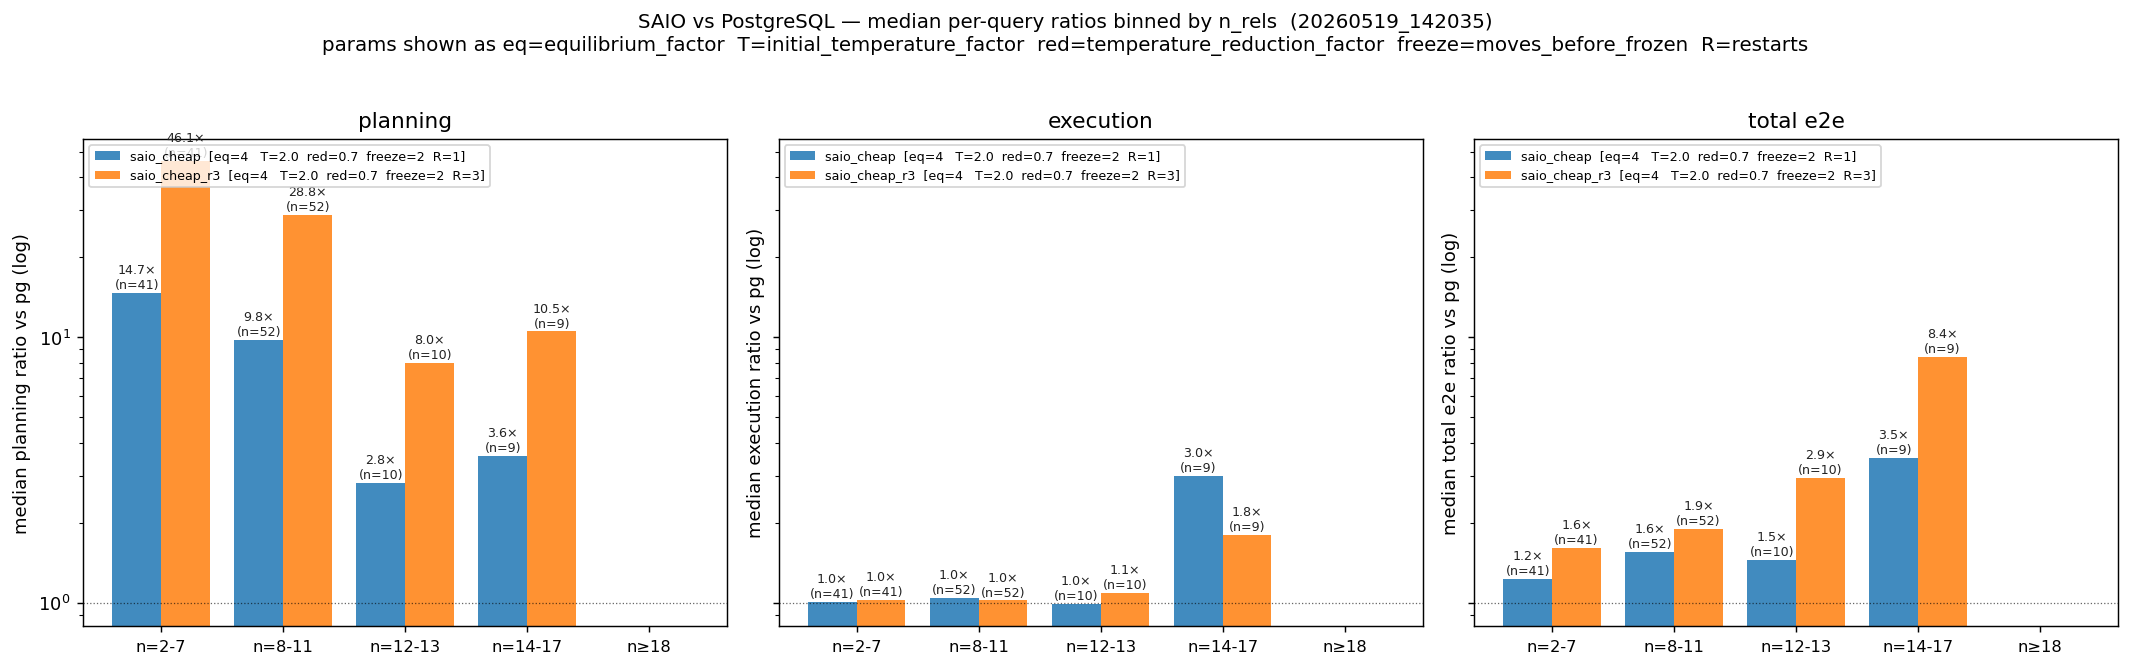
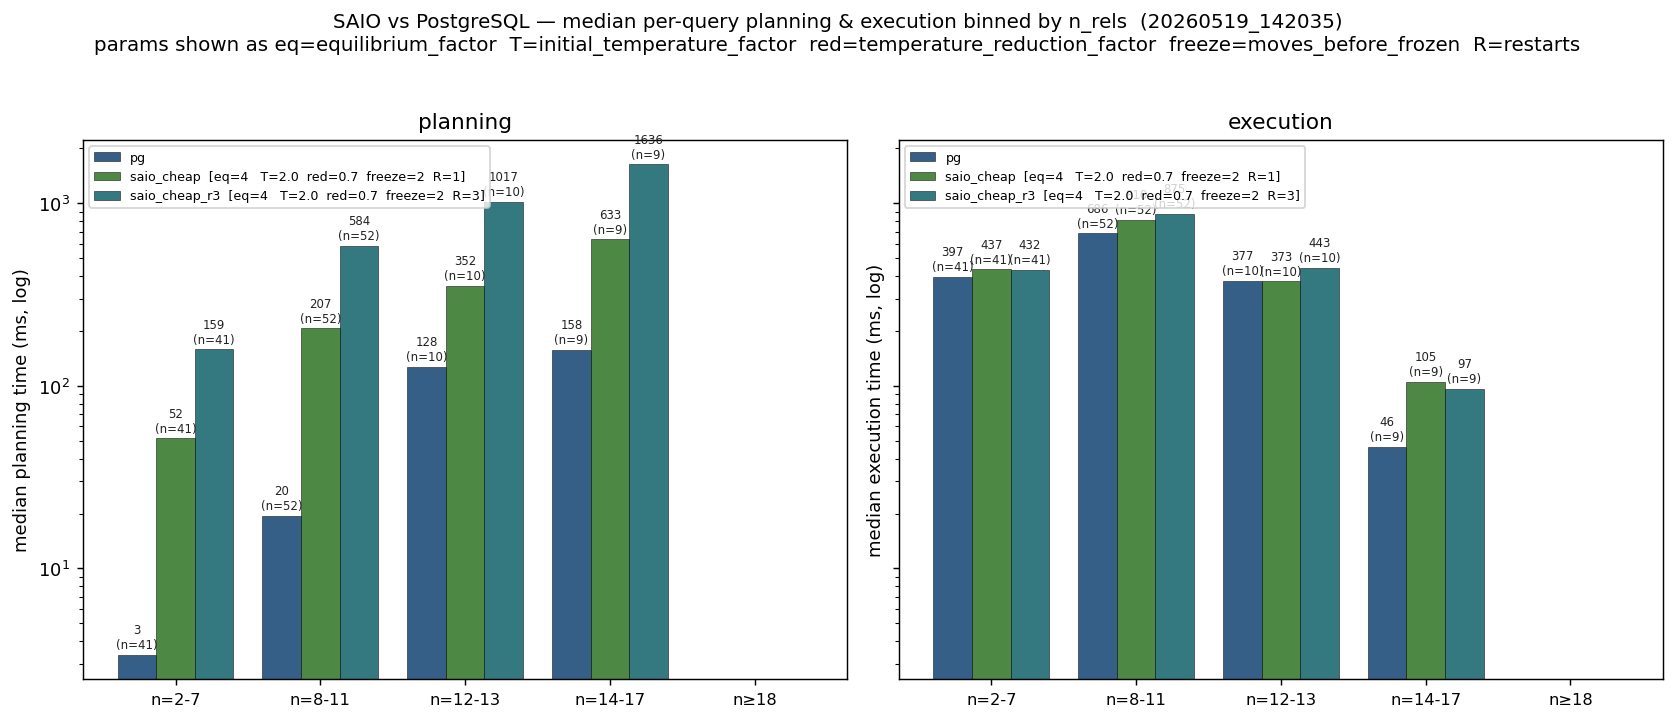
add graphics and rename articles

diff --git a/make_saio_configs_plots.py b/make_saio_configs_plots.py
@@ -207,7 +207,7 @@ fig.savefig(out, dpi=130, bbox_inches="tight")
 print(f"  -> {out}")
 plt.close(fig)
 
-# --- Plot 2b: median ratio binned by n_rels --------------------------------
+# --- Plot 2b: absolute planning + execution time binned by n_rels ----------
 N_BINS = [(2, 7, "n=2-7"), (8, 11, "n=8-11"), (12, 13, "n=12-13"),
           (14, 17, "n=14-17"), (18, 99, "n≥18")]
 
@@ -236,34 +236,62 @@ def bin_stats(med_map, cfg):
             out.append((lbl, 0, None, None))
     return out
 
+# Two-panel chart: absolute planning and execution time per n_rels bin,
+# with one bar group per config (pg + all SAIO variants).
+fig, axes = plt.subplots(1, 2, figsize=(13, 5.4), sharey=True)
+
+def bin_abs(med_map, cfg):
+    """Median of the per-query median times for queries inside each n_rels bin."""
+    out = []
+    for lo_n, hi_n, lbl in N_BINS:
+        vals = [med_map[(cfg, q)] for q in queries
+                if (cfg, q) in med_map and lo_n <= n_lookup[q] <= hi_n]
+        if vals:
+            out.append((lbl, len(vals), median(vals)))
+        else:
+            out.append((lbl, 0, None))
+    return out
+
+
+bar_order = ["pg"] + non_pg
+bar_colors = {
+    "pg":             "#1f4e79",
+    "saio_default":   "#7a2f1f",
+    "saio_mid":       "#7a4a1f",
+    "saio_cheap":     "#3a7c2f",
+    "saio_cheap_r3":  "#1f6a72",
+    "saio_cheap_r5":  "#5a1f5f",
+    "saio_cheapest":  "#a3611c",
+}
+
 for ax, (label, med_map) in zip(axes,
                                 [("planning", med_plan),
-                                 ("execution", med_exec),
-                                 ("total e2e", med_total)]):
-    width = 0.8 / len(non_pg)
+                                 ("execution", med_exec)]):
+    width = 0.8 / len(bar_order)
     xs = np.arange(len(N_BINS))
-    for i, cfg in enumerate(non_pg):
-        stats = bin_stats(med_map, cfg)
-        offset = (i - (len(non_pg) - 1) / 2.0) * width
+    for i, cfg in enumerate(bar_order):
+        stats = bin_abs(med_map, cfg)
+        offset = (i - (len(bar_order) - 1) / 2.0) * width
         meds = [s[2] if s[2] is not None else 0 for s in stats]
         ns   = [s[1] for s in stats]
         legend_label = cfg
         if cfg in CFG_PARAMS:
             legend_label = f"{cfg}  [{CFG_PARAMS[cfg]}]"
-        bars = ax.bar(xs + offset, meds, width, label=legend_label, alpha=0.85)
+        color = bar_colors.get(cfg, "#666666")
+        ax.bar(xs + offset, meds, width, label=legend_label, color=color,
+               alpha=0.9, edgecolor="black", linewidth=0.3)
         for x, n, m in zip(xs + offset, ns, meds):
-            if m > 0:
-                ax.text(x, m * 1.04, f"{m:.1f}×\n(n={n})", ha="center",
-                        fontsize=7, color="#222")
-    ax.axhline(1.0, color="black", lw=0.7, ls=":", alpha=0.6)
+            if m and m > 0:
+                ax.text(x, m * 1.08, f"{m:.0f}\n(n={n})", ha="center",
+                        fontsize=6.5, color="#222")
     ax.set_xticks(xs)
     ax.set_xticklabels([b[2] for b in N_BINS], fontsize=9)
     ax.set_yscale("log")
-    ax.set_ylabel(f"median {label} ratio vs pg (log)")
+    ax.set_ylabel(f"median {label} time (ms, log)")
     ax.set_title(label)
     ax.legend(fontsize=7, loc="upper left")
-fig.suptitle(f"SAIO vs PostgreSQL — median per-query ratios binned by n_rels  "
-             f"({src_path.parent.name})\n"
+fig.suptitle(f"SAIO vs PostgreSQL — median per-query planning & execution "
+             f"binned by n_rels  ({src_path.parent.name})\n"
              f"params shown as eq=equilibrium_factor  T=initial_temperature_factor  "
              f"red=temperature_reduction_factor  freeze=moves_before_frozen  R=restarts",
              y=1.02, fontsize=11)